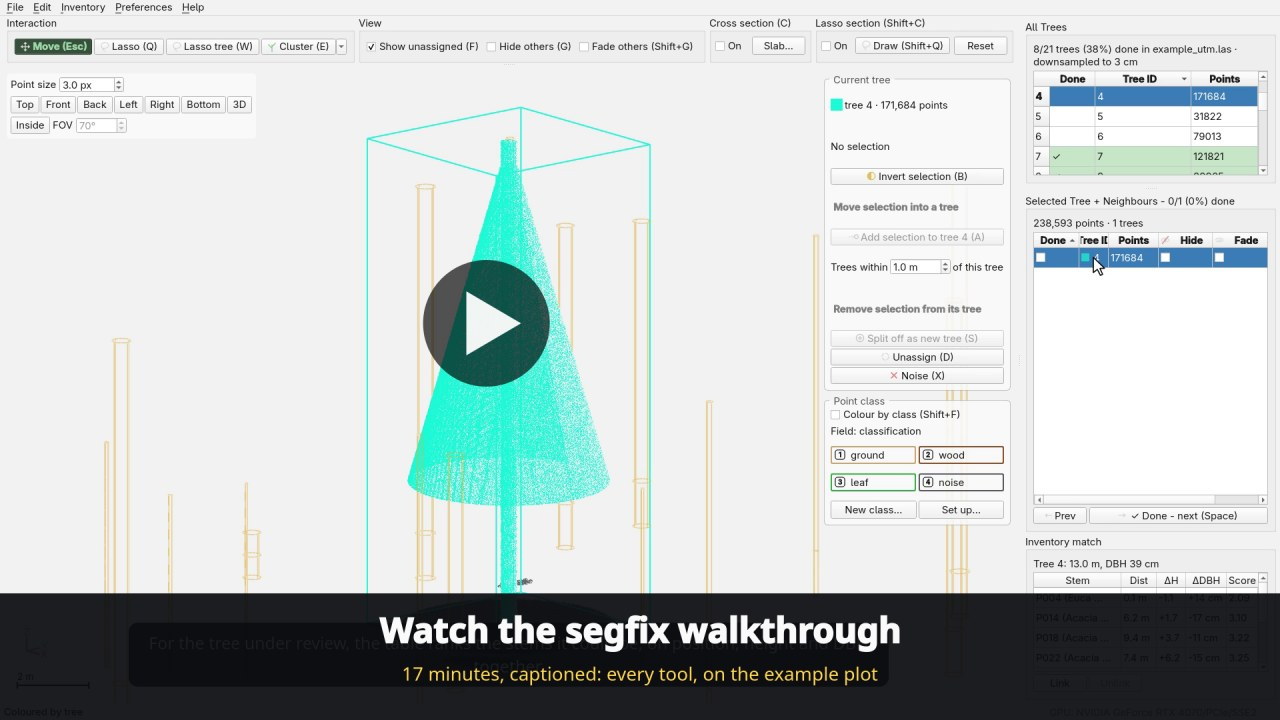
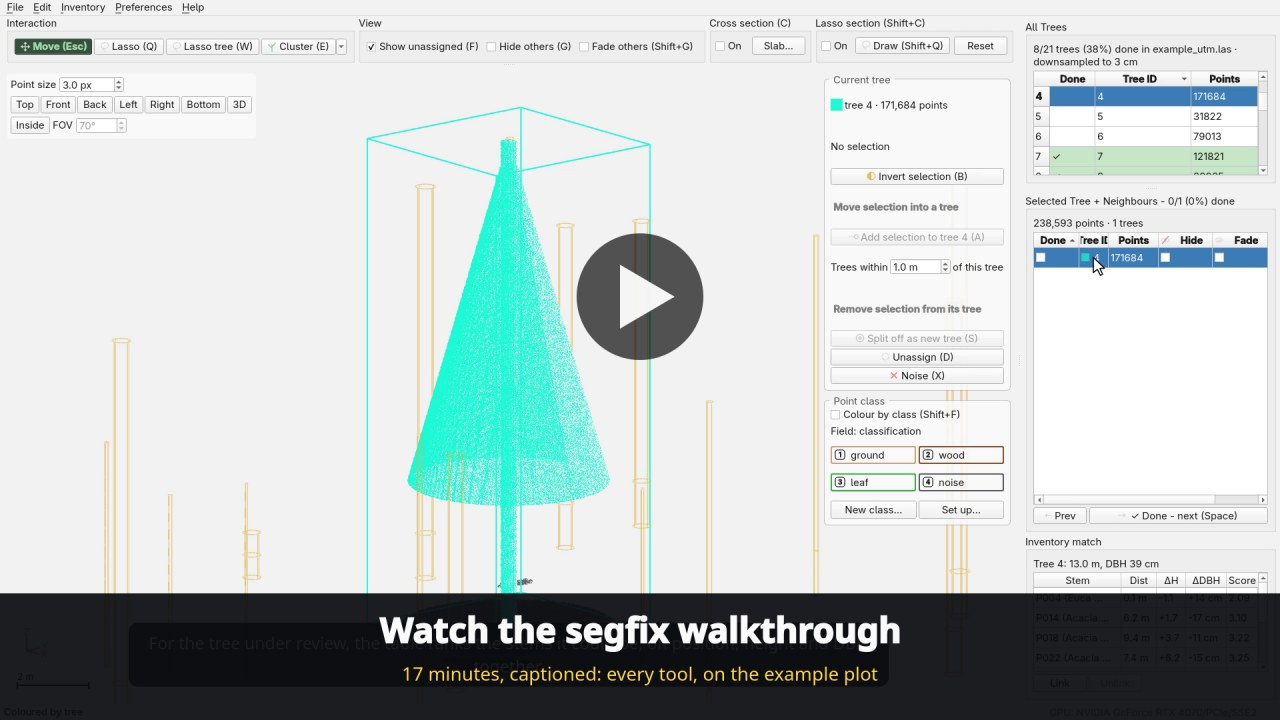
Centre the poster's play button

Changed region(s): [[0.3125, 0.3056, 0.5625, 0.55]]

diff --git a/scripts/demo/make_poster.py b/scripts/demo/make_poster.py
@@ -72,8 +72,8 @@ def main(argv=None) -> int:
     p.drawText(QRectF(0, height - 95, width, 50), Qt.AlignmentFlag.AlignCenter,
                subtitle)
 
-    # Play button, over the point view rather than the panels.
-    cx, cy, r = width * 0.38, (height - 190) / 2 + 40, 95
+    # Play button in the middle of the frame.
+    cx, cy, r = width / 2, (height - 190) / 2, 95
     p.setPen(Qt.PenStyle.NoPen)
     p.setBrush(QColor(0, 0, 0, 170))
     p.drawEllipse(QPointF(cx, cy), r, r)
